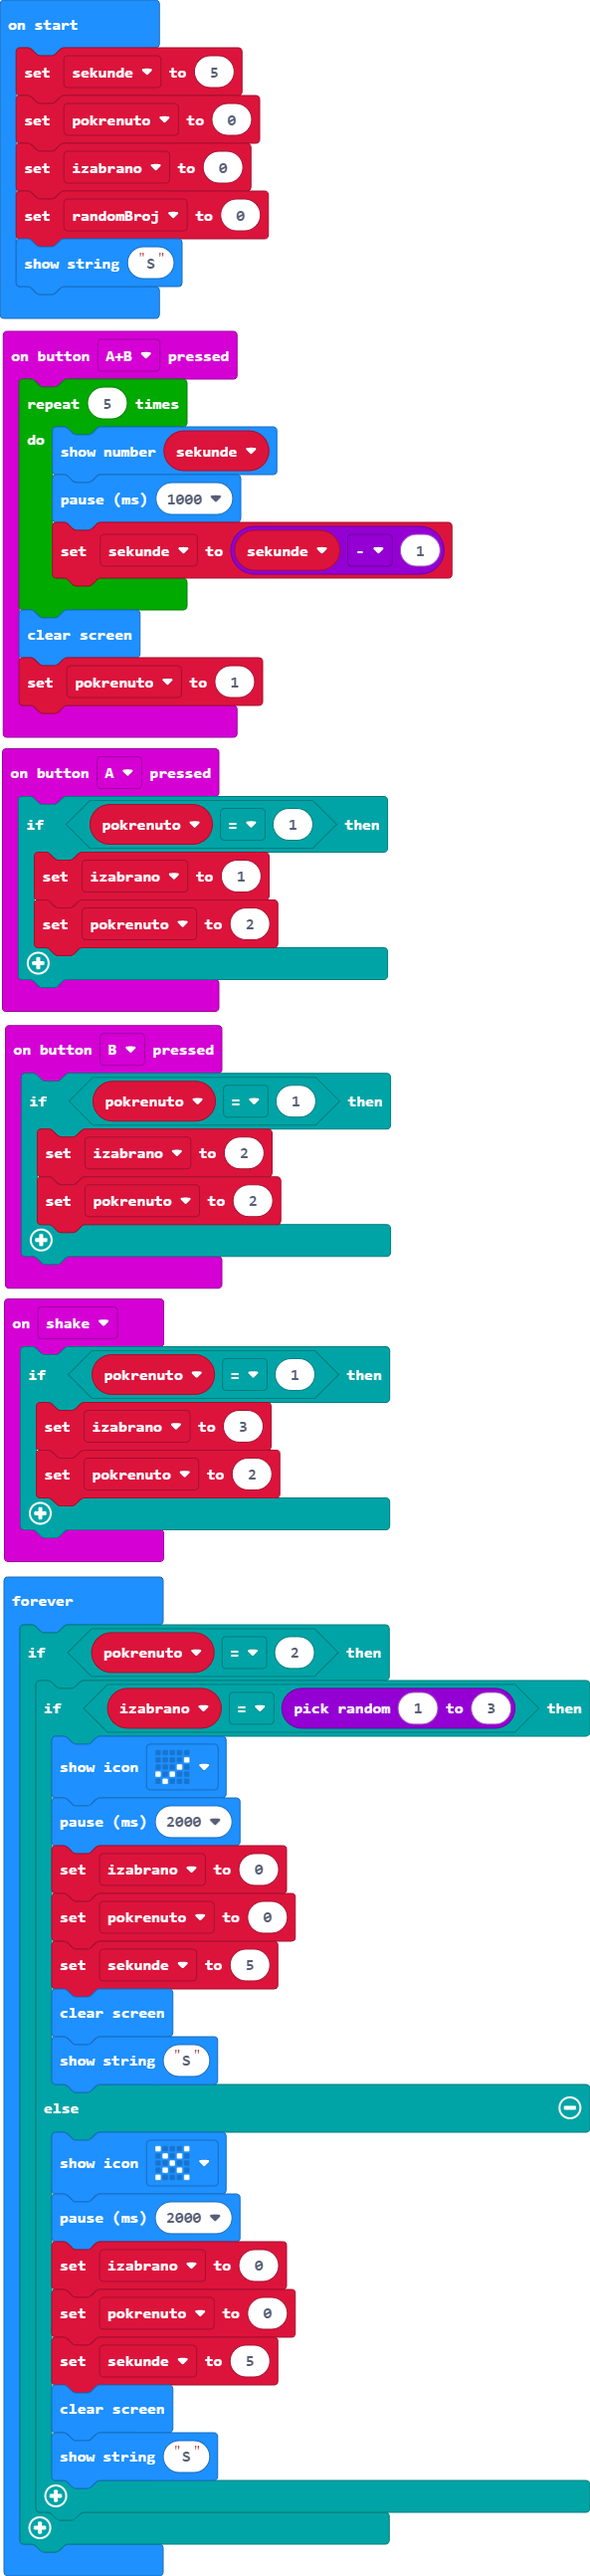
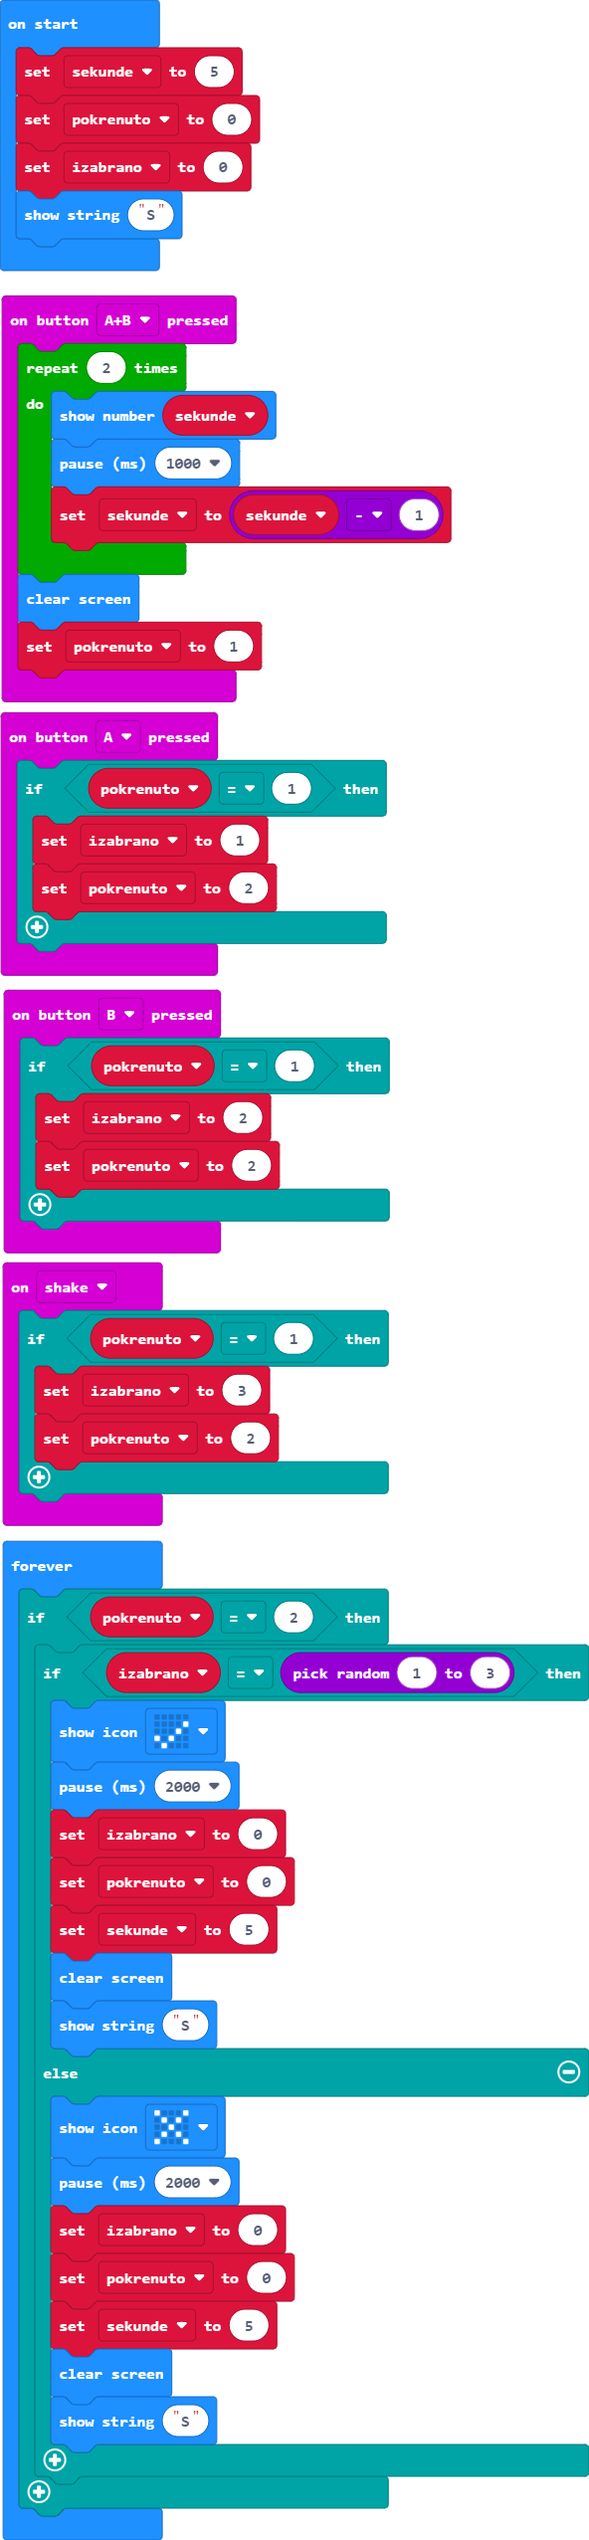
Update main.blocks, main.ts

Changed region(s): [[0.0, 0.0309, 1.0, 1.0], [0.2736, 0.9902, 0.3041, 1.0]]

diff --git a/main.ts b/main.ts
@@ -5,7 +5,7 @@ input.onButtonPressed(Button.A, function () {
     }
 })
 input.onButtonPressed(Button.AB, function () {
-    for (let index = 0; index < 5; index++) {
+    for (let index = 0; index < 2; index++) {
         basic.showNumber(sekunde)
         basic.pause(1000)
         sekunde = sekunde - 1
@@ -31,7 +31,6 @@ let sekunde = 0
 sekunde = 5
 pokrenuto = 0
 izabrano = 0
-let randomBroj = 0
 basic.showString("S")
 basic.forever(function () {
     if (pokrenuto == 2) {
